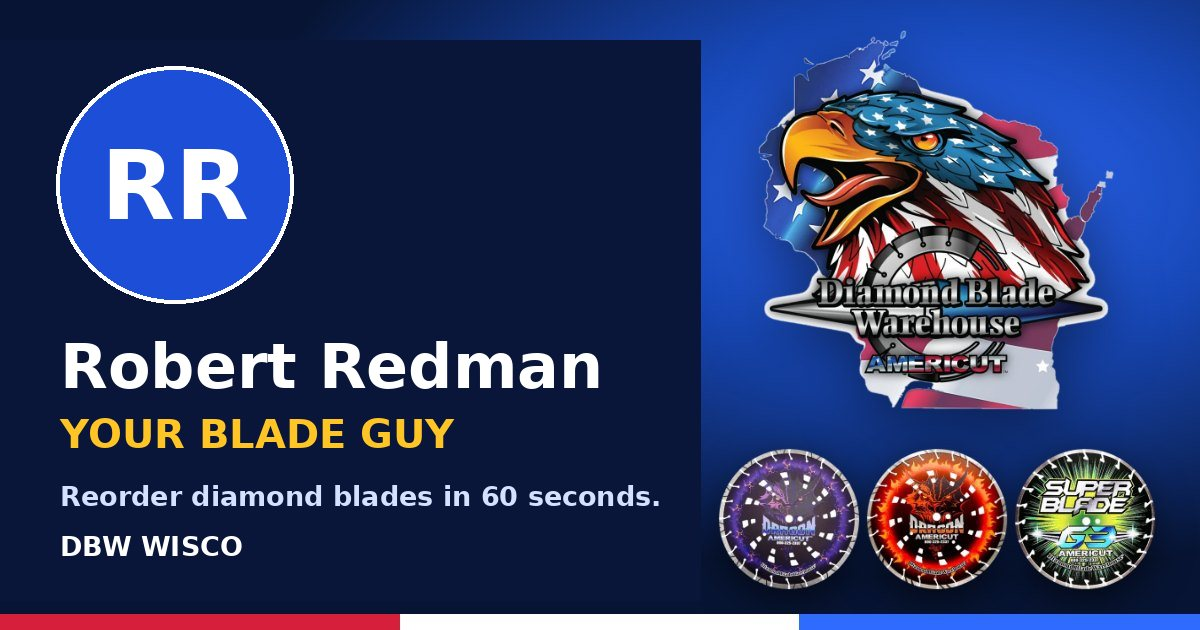
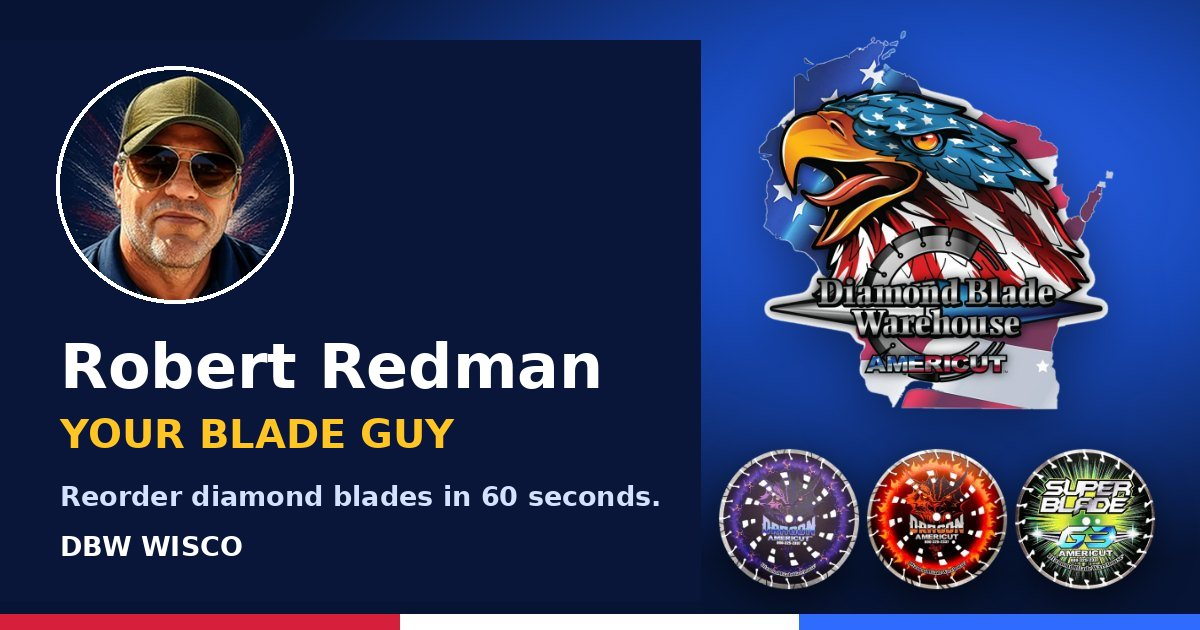
DBW WISCO: cartoons for Cutty and JB (#19)
Cartoon pictures for Robert Redman (Cutty) and JB Baemert on the rep roster, their rep pages and their link thumbnails.

Changed region(s): [[0.0308, 0.0905, 0.2467, 0.4825]]

diff --git a/wisco/config.js b/wisco/config.js
@@ -54,8 +54,8 @@ window.WISCO = {
     { name: "Adam Misurek", photo: "miz.webp", email: "amisurek@diamondbladewarehouse.com", cell: "+14145207257", manager: "", aka: ["miz"] },
     { name: "Joey “The Stinger” DeRuki", photo: "snacks.webp", email: "jderuki@diamondbladewarehouse.com", cell: "+12629579839", manager: "", aka: ["snacks", "joey-deruki"] },
     { name: "T.J. Sutton", photo: "tj.webp", email: "tsutton@diamondbladewarehouse.com", cell: "+12624200326", manager: "", aka: ["tj"] },
-    { name: "JB Baemert", photo: "", email: "jbaemert@diamondbladewarehouse.com", cell: "+14149168672", manager: "", aka: ["jb", "jb-bammert", "jb-baemmert"] },
-    { name: "Robert Redman", photo: "", email: "rredman@diamondbladewarehouse.com", cell: "+14145731192", manager: "", aka: ["cutty", "rob-redman"] },
+    { name: "JB Baemert", photo: "jb.webp", email: "jbaemert@diamondbladewarehouse.com", cell: "+14149168672", manager: "", aka: ["jb", "jb-bammert", "jb-baemmert"] },
+    { name: "Robert Redman", photo: "cutty.webp", email: "rredman@diamondbladewarehouse.com", cell: "+14145731192", manager: "", aka: ["cutty", "rob-redman"] },
     { name: "Kerry Smith", photo: "kerry.webp", email: "ksmith@diamondbladewarehouse.com", cell: "+14144037004", manager: "", aka: ["kerry"] },
     { name: "Geoff Nurse", photo: "geoff.webp", email: "gnurse@diamondbladewarehouse.com", cell: "+14142544197", manager: "", aka: ["geoff", "jeff"] },
     { name: "Luis Millan", photo: "luis.webp", email: "lmillan@diamondbladewarehouse.com", cell: "+14142161941", manager: "", aka: ["luis", "luis-milan"] },

diff --git a/wisco/index.html b/wisco/index.html
@@ -19,7 +19,7 @@
 <meta name="apple-mobile-web-app-title" content="DBW WISCO">
 <meta name="theme-color" content="#071433">
 <link rel="preconnect" href="https://fonts.googleapis.com"><link rel="preconnect" href="https://fonts.gstatic.com" crossorigin><link rel="stylesheet" href="https://fonts.googleapis.com/css2?family=Alfa+Slab+One&family=Montserrat:wght@500;600;700;800;900&display=swap">
-<link rel="stylesheet" href="app.css?v=1794692497">
+<link rel="stylesheet" href="app.css?v=1794698819">
 </head>
 <body>
 <div class="trust"><span>★ A division of Diamond Blade Warehouse, LLC</span><span>Ships same day or next</span><span>The more you buy, the better the price ★</span></div>
@@ -168,8 +168,8 @@
   <div class="d-foot"><div class="row-between"><button class="btn ghost-d sm" data-close>Back</button><button class="btn chrome sm" data-cart>Review order</button></div></div>
 </dialog>
 
-<script src="config.js?v=1794692497"></script>
-<script src="catalog.js?v=1794692497"></script>
-<script src="app.js?v=1794692497"></script>
+<script src="config.js?v=1794698819"></script>
+<script src="catalog.js?v=1794698819"></script>
+<script src="app.js?v=1794698819"></script>
 </body>
 </html>
